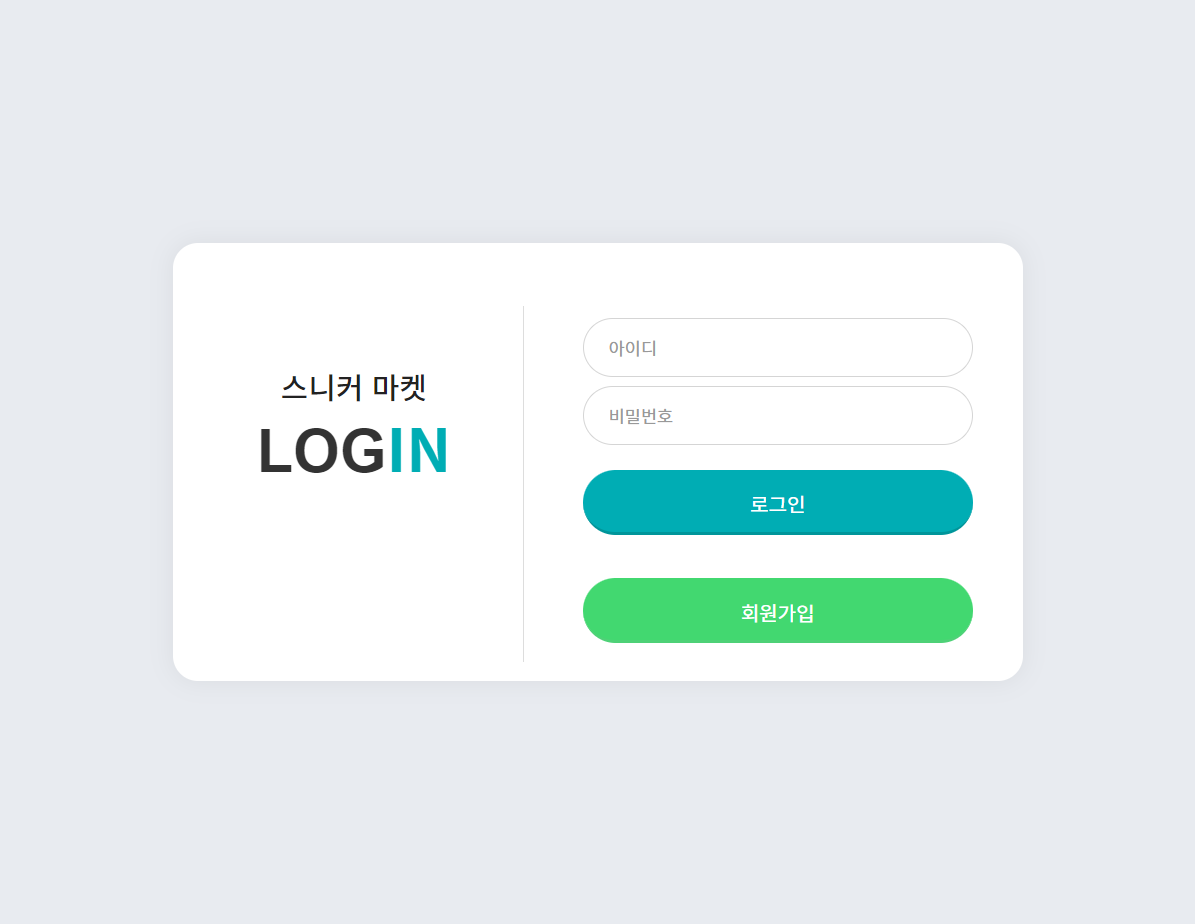
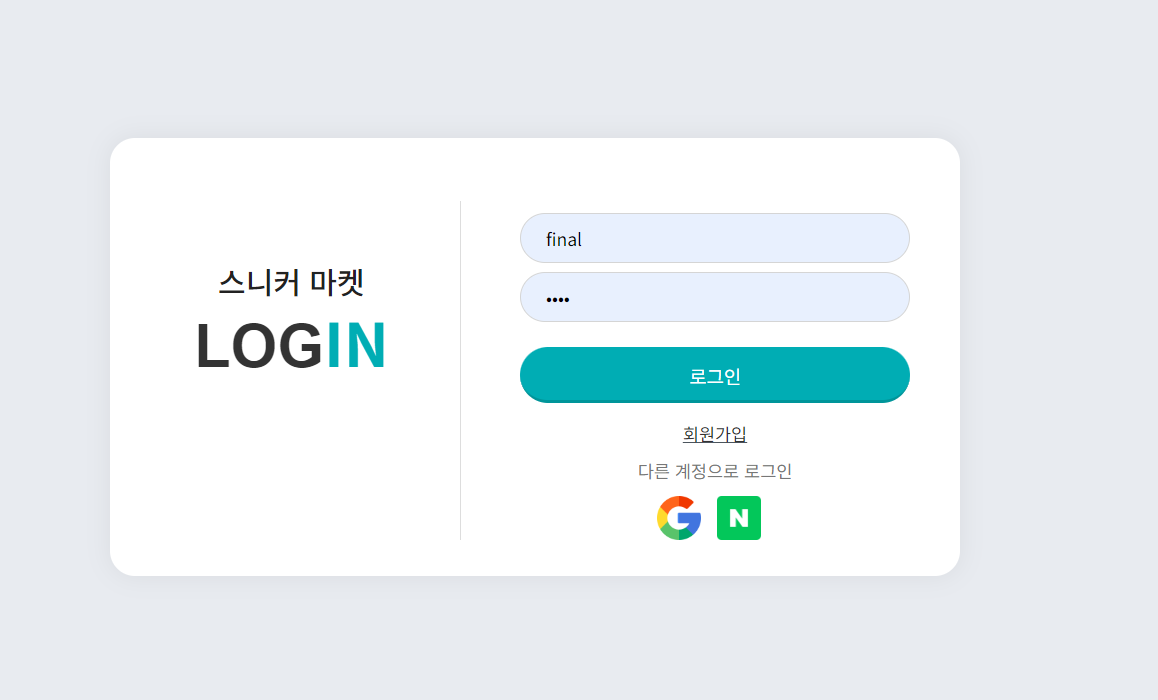
README FIX

Changed region(s): [[0.1244, 0.24, 0.8705, 0.78], [0.4663, 0.33, 0.5596, 0.39], [0.4663, 0.42, 0.4974, 0.45]]

diff --git a/out/production/resources/templates/member/login.html b/out/production/resources/templates/member/login.html
@@ -9,7 +9,9 @@
   <link rel="stylesheet" th:href="@{/css/content.css}" />
   <link rel="stylesheet" th:href="@{/css/button.css}" />
   <style>
-    #login_box .signup_btn {background:#42d870; border:0; border-bottom:solid 3px #4ed177; border-radius:50px; width:100%; height:52px; line-height:52px; font-size:16px; color:#fff; text-align:center; margin:20px 0 15px;}
+    #login_box .my-underline {text-decoration-line: underline; text-decoration-color: #4c555e}
+    #login_box .login_hr {border: 0.3px solid #dddddd; width: 90%; margin: 10px auto; }
+    #login_box .my-text{ margin: 10px auto;}
   </style>
 </head>
 
@@ -35,7 +37,17 @@
             </li>
           </ul>
           <button type="submit" class="login_btn">로그인</button>
-          <button type="button" onclick="openSignupPopup();" class="signup_btn">회원가입</button>
+          <a type="button" href="#" class="my-underline" onclick="openSignupPopup();">회원가입</a>
+
+
+          <div class="my-text">다른 계정으로 로그인</div>
+
+          <a href="/oauth2/authorization/google" class="button-with-margin">
+            <img th:src="@{/images/google/free-icon-google-2991148.png}" height="35" width="35"/>
+          </a>
+          <a href="/oauth2/authorization/naver" class="button-with-margin">
+            <img th:src="@{/images/naver/btnG_아이콘사각.png}" height="35" width="35"/>
+          </a>
         </form>
       </div>
     </div>

diff --git a/src/main/resources/templates/member/login.html b/src/main/resources/templates/member/login.html
@@ -9,7 +9,9 @@
   <link rel="stylesheet" th:href="@{/css/content.css}" />
   <link rel="stylesheet" th:href="@{/css/button.css}" />
   <style>
-    #login_box .signup_btn {background:#42d870; border:0; border-bottom:solid 3px #4ed177; border-radius:50px; width:100%; height:52px; line-height:52px; font-size:16px; color:#fff; text-align:center; margin:20px 0 15px;}
+    #login_box .my-underline {text-decoration-line: underline; text-decoration-color: #4c555e}
+    #login_box .login_hr {border: 0.3px solid #dddddd; width: 90%; margin: 10px auto; }
+    #login_box .my-text{ margin: 10px auto;}
   </style>
 </head>
 
@@ -35,7 +37,17 @@
             </li>
           </ul>
           <button type="submit" class="login_btn">로그인</button>
-          <button type="button" onclick="openSignupPopup();" class="signup_btn">회원가입</button>
+          <a type="button" href="#" class="my-underline" onclick="openSignupPopup();">회원가입</a>
+
+
+          <div class="my-text">다른 계정으로 로그인</div>
+
+          <a href="/oauth2/authorization/google" class="button-with-margin">
+            <img th:src="@{/images/google/free-icon-google-2991148.png}" height="35" width="35"/>
+          </a>
+          <a href="/oauth2/authorization/naver" class="button-with-margin">
+            <img th:src="@{/images/naver/btnG_아이콘사각.png}" height="35" width="35"/>
+          </a>
         </form>
       </div>
     </div>

diff --git a/src/main/java/com/sneakermarket/config/SecurityConfig.java b/src/main/java/com/sneakermarket/config/SecurityConfig.java
@@ -3,7 +3,6 @@ package com.sneakermarket.config;
 import com.sneakermarket.config.auth.CustomUserDetailService;
 import com.sneakermarket.config.oauth.CustomOAuth2UserService;
 import lombok.RequiredArgsConstructor;
-import org.springframework.boot.autoconfigure.security.servlet.PathRequest;
 import org.springframework.context.annotation.Bean;
 import org.springframework.context.annotation.Configuration;
 import org.springframework.security.config.annotation.authentication.builders.AuthenticationManagerBuilder;

diff --git a/README.md b/README.md
@@ -162,24 +162,23 @@ searchType = wrtier로 작성자를 검색한다.
 
 ![[크기변환]회원가입.png](images%2F%5B%ED%81%AC%EA%B8%B0%EB%B3%80%ED%99%98%5D%ED%9A%8C%EC%9B%90%EA%B0%80%EC%9E%85.png)
 ![[크기변환]회원가입 유효성.png](images%2F%5B%ED%81%AC%EA%B8%B0%EB%B3%80%ED%99%98%5D%ED%9A%8C%EC%9B%90%EA%B0%80%EC%9E%85%20%EC%9C%A0%ED%9A%A8%EC%84%B1.png)
-
+![userId_duplication.png](images%2FuserId_duplication.png)
 
 유효성 검사와 중복을 확인하고 회원 가입이 성공하면 로그인 페이지로 이동한다.
 
 #### 2-1. 로그인
-![소셜로그인.png](images%2F%BC%D2%BC%C8%B7%CE%B1%D7%C0%CE.png)
 
-![로그인.png](images%2F%EB%A1%9C%EA%B7%B8%EC%9D%B8.png)
+![로그인.png](images%2F%B7%CE%B1%D7%C0%CE.png)
 
 로그인이 성공하면 리스트 페이지로 redirect한다.
 
 #### 2-2. OAuth 2.0 소셜 로그인 
 
 ##### 구글 로그인
-![구글 로그인.png](images%2F%B1%B8%B1%DB%20%B7%CE%B1%D7%C0%CE.png)
+![google_login.png](images%2Fgoogle_login.png)
 
 ##### 네이버 로그인
-![네이버 로그인.png](images%2F%B3%D7%C0%CC%B9%F6%20%B7%CE%B1%D7%C0%CE.png)
+![naver.login.png](images%2Fnaver.login.png)
 
 구글 계정과 네이버 계정으로 로그인한다.
 
